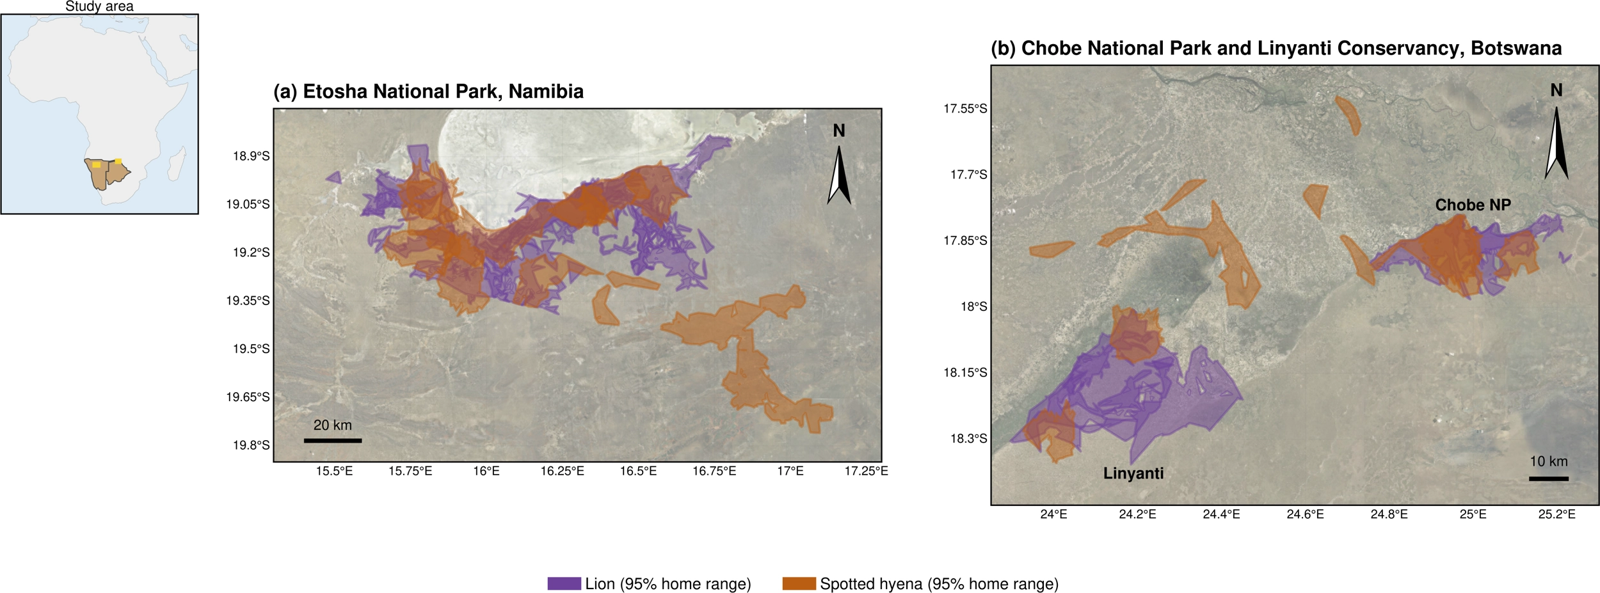
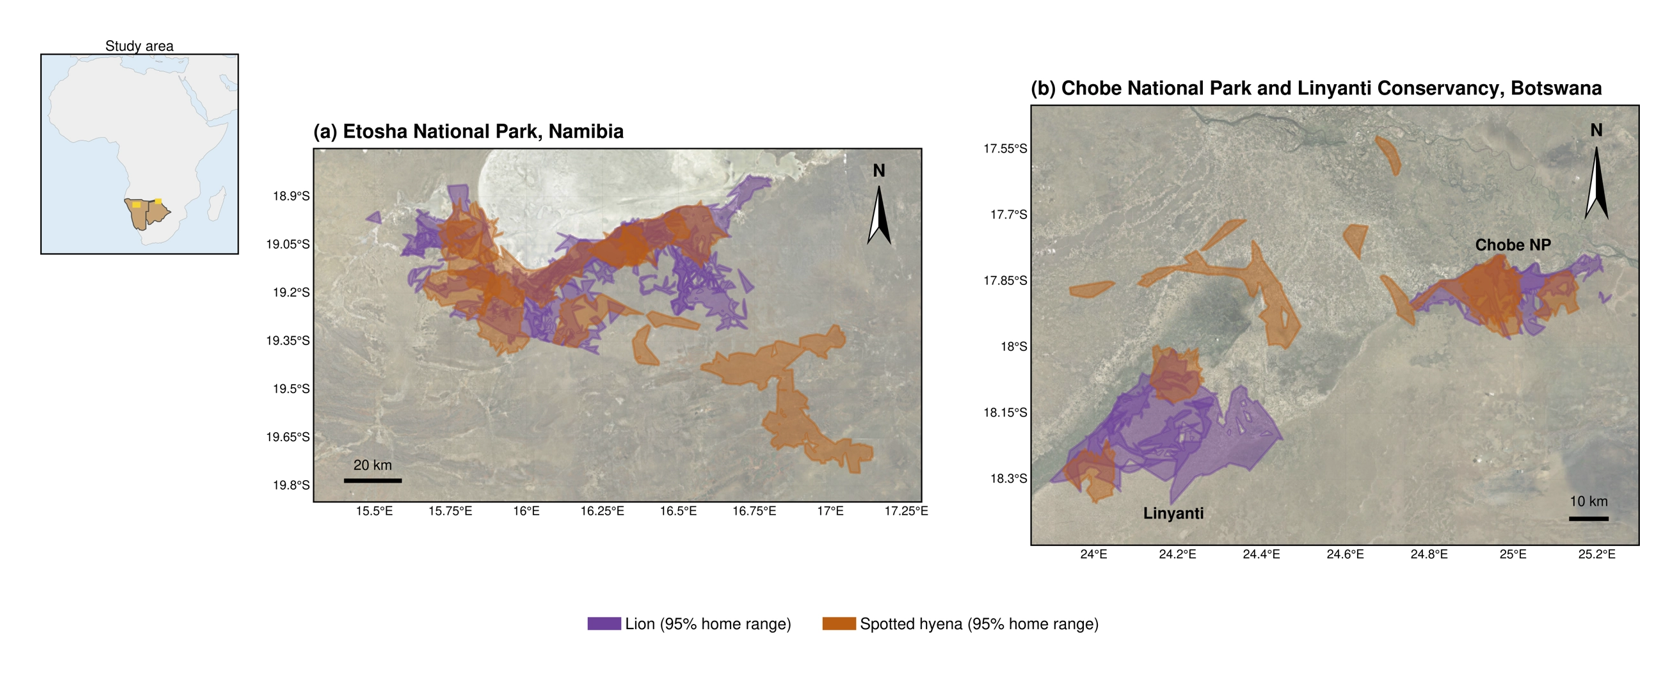
Stack the pipeline diagram vertically and add a white margin to the map figure

diff --git a/README.md b/README.md
@@ -28,13 +28,13 @@ I am a named author on these Zenodo datasets:
 ## The data pipeline
 
 ```mermaid
-flowchart LR
-    A[GPS and accelerometer<br/>collar telemetry] --> B[Clean and validate<br/>in R]
-    B --> C[Fill missing fixes<br/>with ctmm]
-    C --> D[Feature engineering<br/>movement and landscape]
-    D --> E[Analysis<br/>clustering, home ranges,<br/>relative motion]
-    E --> F[Figures and<br/>publications]
-    E --> G[Published datasets<br/>on Zenodo]
+flowchart TB
+    A[GPS and accelerometer collar telemetry] --> B[Clean and validate in R]
+    B --> C[Fill missing fixes with ctmm]
+    C --> D[Feature engineering: movement and landscape]
+    D --> E[Analysis: clustering, home ranges, relative motion]
+    E --> F[Figures and publications]
+    E --> G[Published datasets on Zenodo]
 ```
 
 **Raw data.** GPS relocations from collared lions and spotted hyenas, with accelerometer activity values. The PLOS ONE study used 575,418 relocations from 19 lions and 14 hyenas; the Frontiers study used 349,163 relocations from 17 lions and 14 hyenas.
